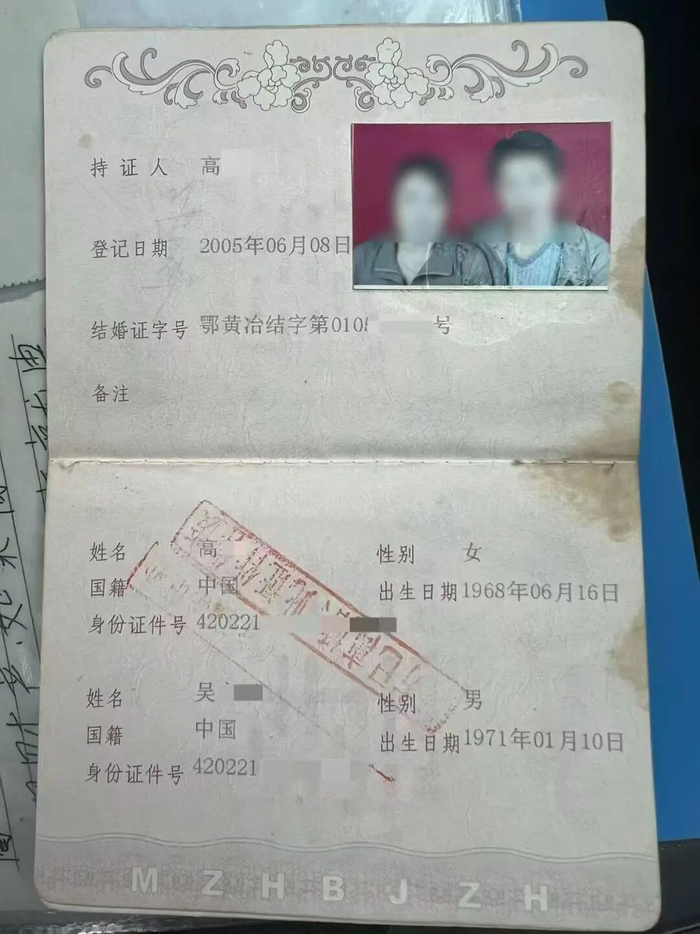
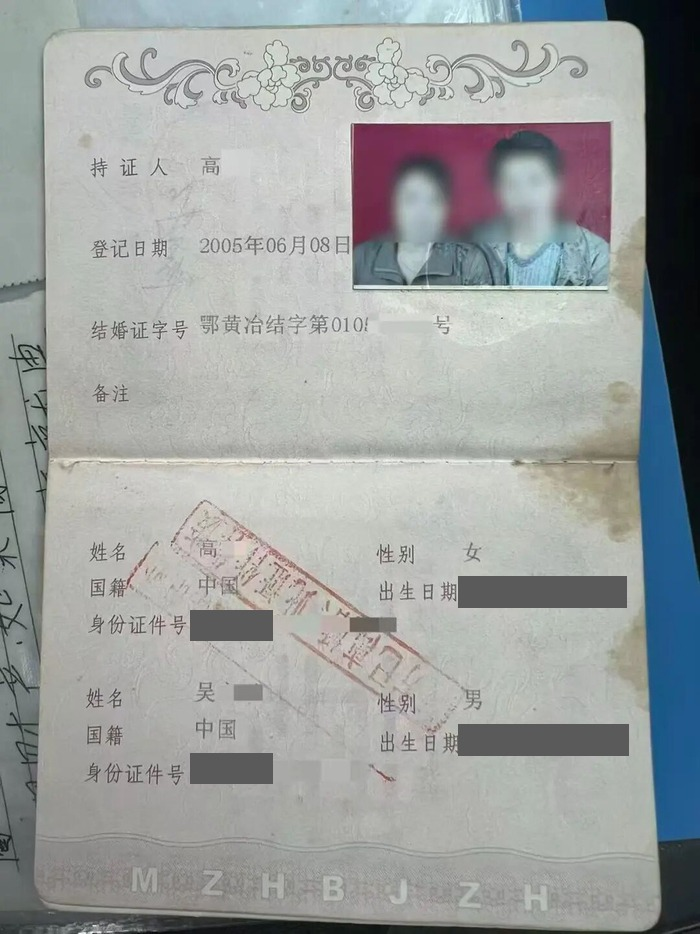
chore(pipeline): 260609-3 改题并对结婚证图补打码（用户裁定）
- retitle：离婚杀妻案二审将开庭 → 离婚杀妻案二审开庭未当庭宣判（二审 6-10 已开庭、
  至今未宣判，原标题会让读者以为庭审未发生）。研究文件 slug 与首行标题一并改名，
  免得草稿/评审版本按旧 slug 递增时错乱——retitle 本身只改账本行。
- 结婚证内页：在大河报原有遮蔽（面部、名、证号后位、证字号）之外，补打双方出生日期
  与身份证号前 6 位；保留姓氏与登记日期 2005-06-08（登记日期是案情事实）。
  裁定与处理已记入研究文件 ## 资产 条目。

diff --git a/_pipeline/research/260609-3-离婚杀妻案二审开庭未当庭宣判.md b/_pipeline/research/260609-3-离婚杀妻案二审开庭未当庭宣判.md
@@ -1,4 +1,4 @@
-# Research: 离婚杀妻案二审将开庭 (260609, #3)
+# Research: 离婚杀妻案二审开庭未当庭宣判 (260609, #3)
 
 ## 事实
 
@@ -120,7 +120,7 @@
 吴某母亲称，事发次日凌晨，吴某称和高某吵架后"一时激动"将其杀害。吴某将离婚分得的4万元现金中的3万多元交给母亲，以及留下一个账本，让母亲帮他讨要工钱，随后边哭边走了。
 
 ## 资产
-- 260609-3-marriage-cert.jpg — https://news.sina.com.cn/c/2026-06-09/doc-iniauvas6472009.shtml（图片直链：k.sinaimg.cn，图注据红星新闻/凤凰网报道原始图源为大河报） — 拍摄/登记日期 2005-06-08（结婚证登记日期） — 高某与吴某某结婚证内页照片，可见二人合影（原图已作面部模糊处理）、双方出生日期与部分身份证号（后几位已打码）；含身份信息，是否使用及是否需进一步打码由用户裁定。
+- 260609-3-marriage-cert.jpg — https://news.sina.com.cn/c/2026-06-09/doc-iniauvas6472009.shtml（图片直链：k.sinaimg.cn，图注据红星新闻/凤凰网报道原始图源为大河报） — 拍摄/登记日期 2005-06-08（结婚证登记日期） — 高某与吴某某结婚证内页照片，可见二人合影（原图已作面部模糊处理）、双方出生日期与部分身份证号（后几位已打码）；含身份信息。**用户裁定 2026-08-16：打码后使用**——orchestrator 已在本地文件上对双方出生日期与身份证号前 6 位补打灰色实心码（原图其余遮蔽为大河报所加：面部模糊、名字与证号后位、结婚证字号），保留姓氏与登记日期 2005-06-08（该登记日期是案情事实）。
 - 260609-3-yzwb-interview1.jpg — https://www.yzwb.net/news/zntt/202606/t20260610_361241.html — 2026-06-10（二审开庭当日现场拍摄） — 记者采访被害人女儿现场照，受访者戴口罩但眼部、发型清晰可辨，周围可见多家媒体话筒（北京广播电视台、扬子晚报紫牛新闻等）；含可能可识别的相貌信息，是否使用由用户裁定。
 - 260609-3-yzwb-interview2.jpg — https://www.yzwb.net/news/zntt/202606/t20260610_361241.html — 2026-06-10（二审开庭当日现场拍摄） — 记者采访被害人家属代理律师王文广现场照，面部清晰、公开身份发表庭外声明，隐私顾虑较低。
 - 260609-3-yzwb-notice.jpg — https://www.yzwb.net/news/zntt/202606/t20260610_361241.html — 2026年6月（开庭公告张贴时间未标注具体日期，公告内容载明开庭日期为2026年6月10日） — 湖北省高级人民法院《开庭公告》张贴照片，载明原审被告人吴永平案由、开庭时间地点及承办法庭，合议庭成员姓名已打码；无隐私顾虑，为本案核心官方文书证据，摘录见[E22]。
